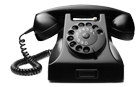
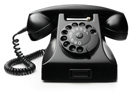
Updated telephone image

diff --git a/css/sidebars.css b/css/sidebars.css
@@ -70,7 +70,7 @@ ul.mainstage-teasers li .image img {
 -------------------------------------------------------------- */
 #text-3 {
 	text-align: center;
-	background: url(../images/telephone.png) 30% 0 no-repeat;
+	background: url(../images/telephone.png) 35% 0 no-repeat;
 	padding: 100px 0 0 0;
 	overflow: hidden;
 }
